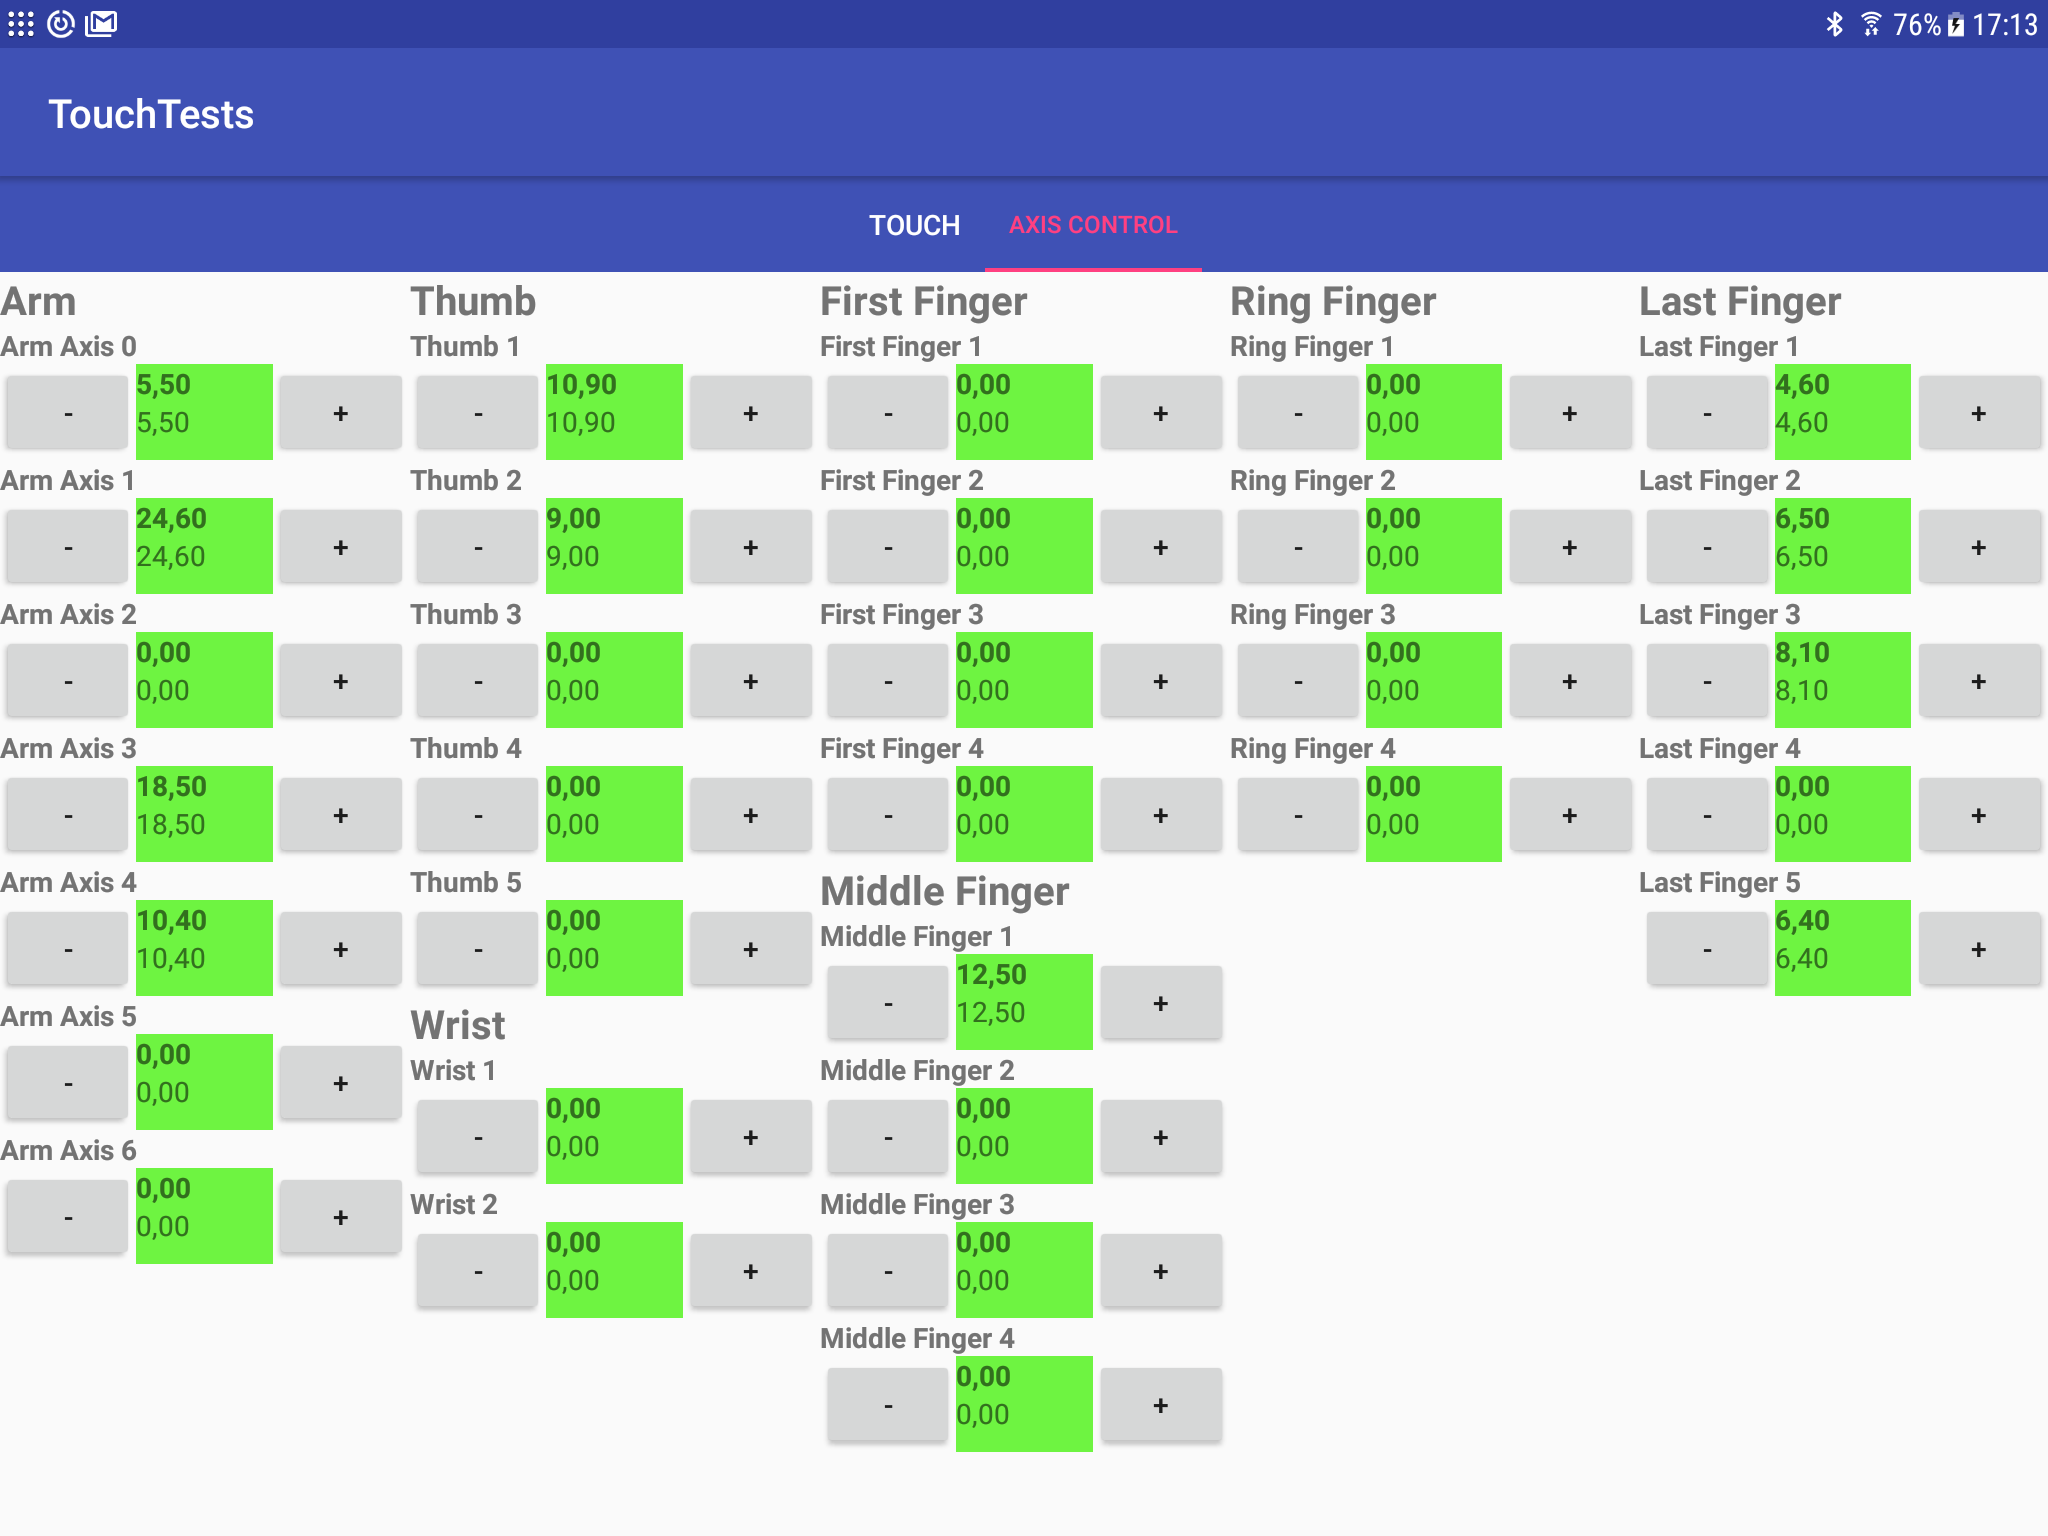
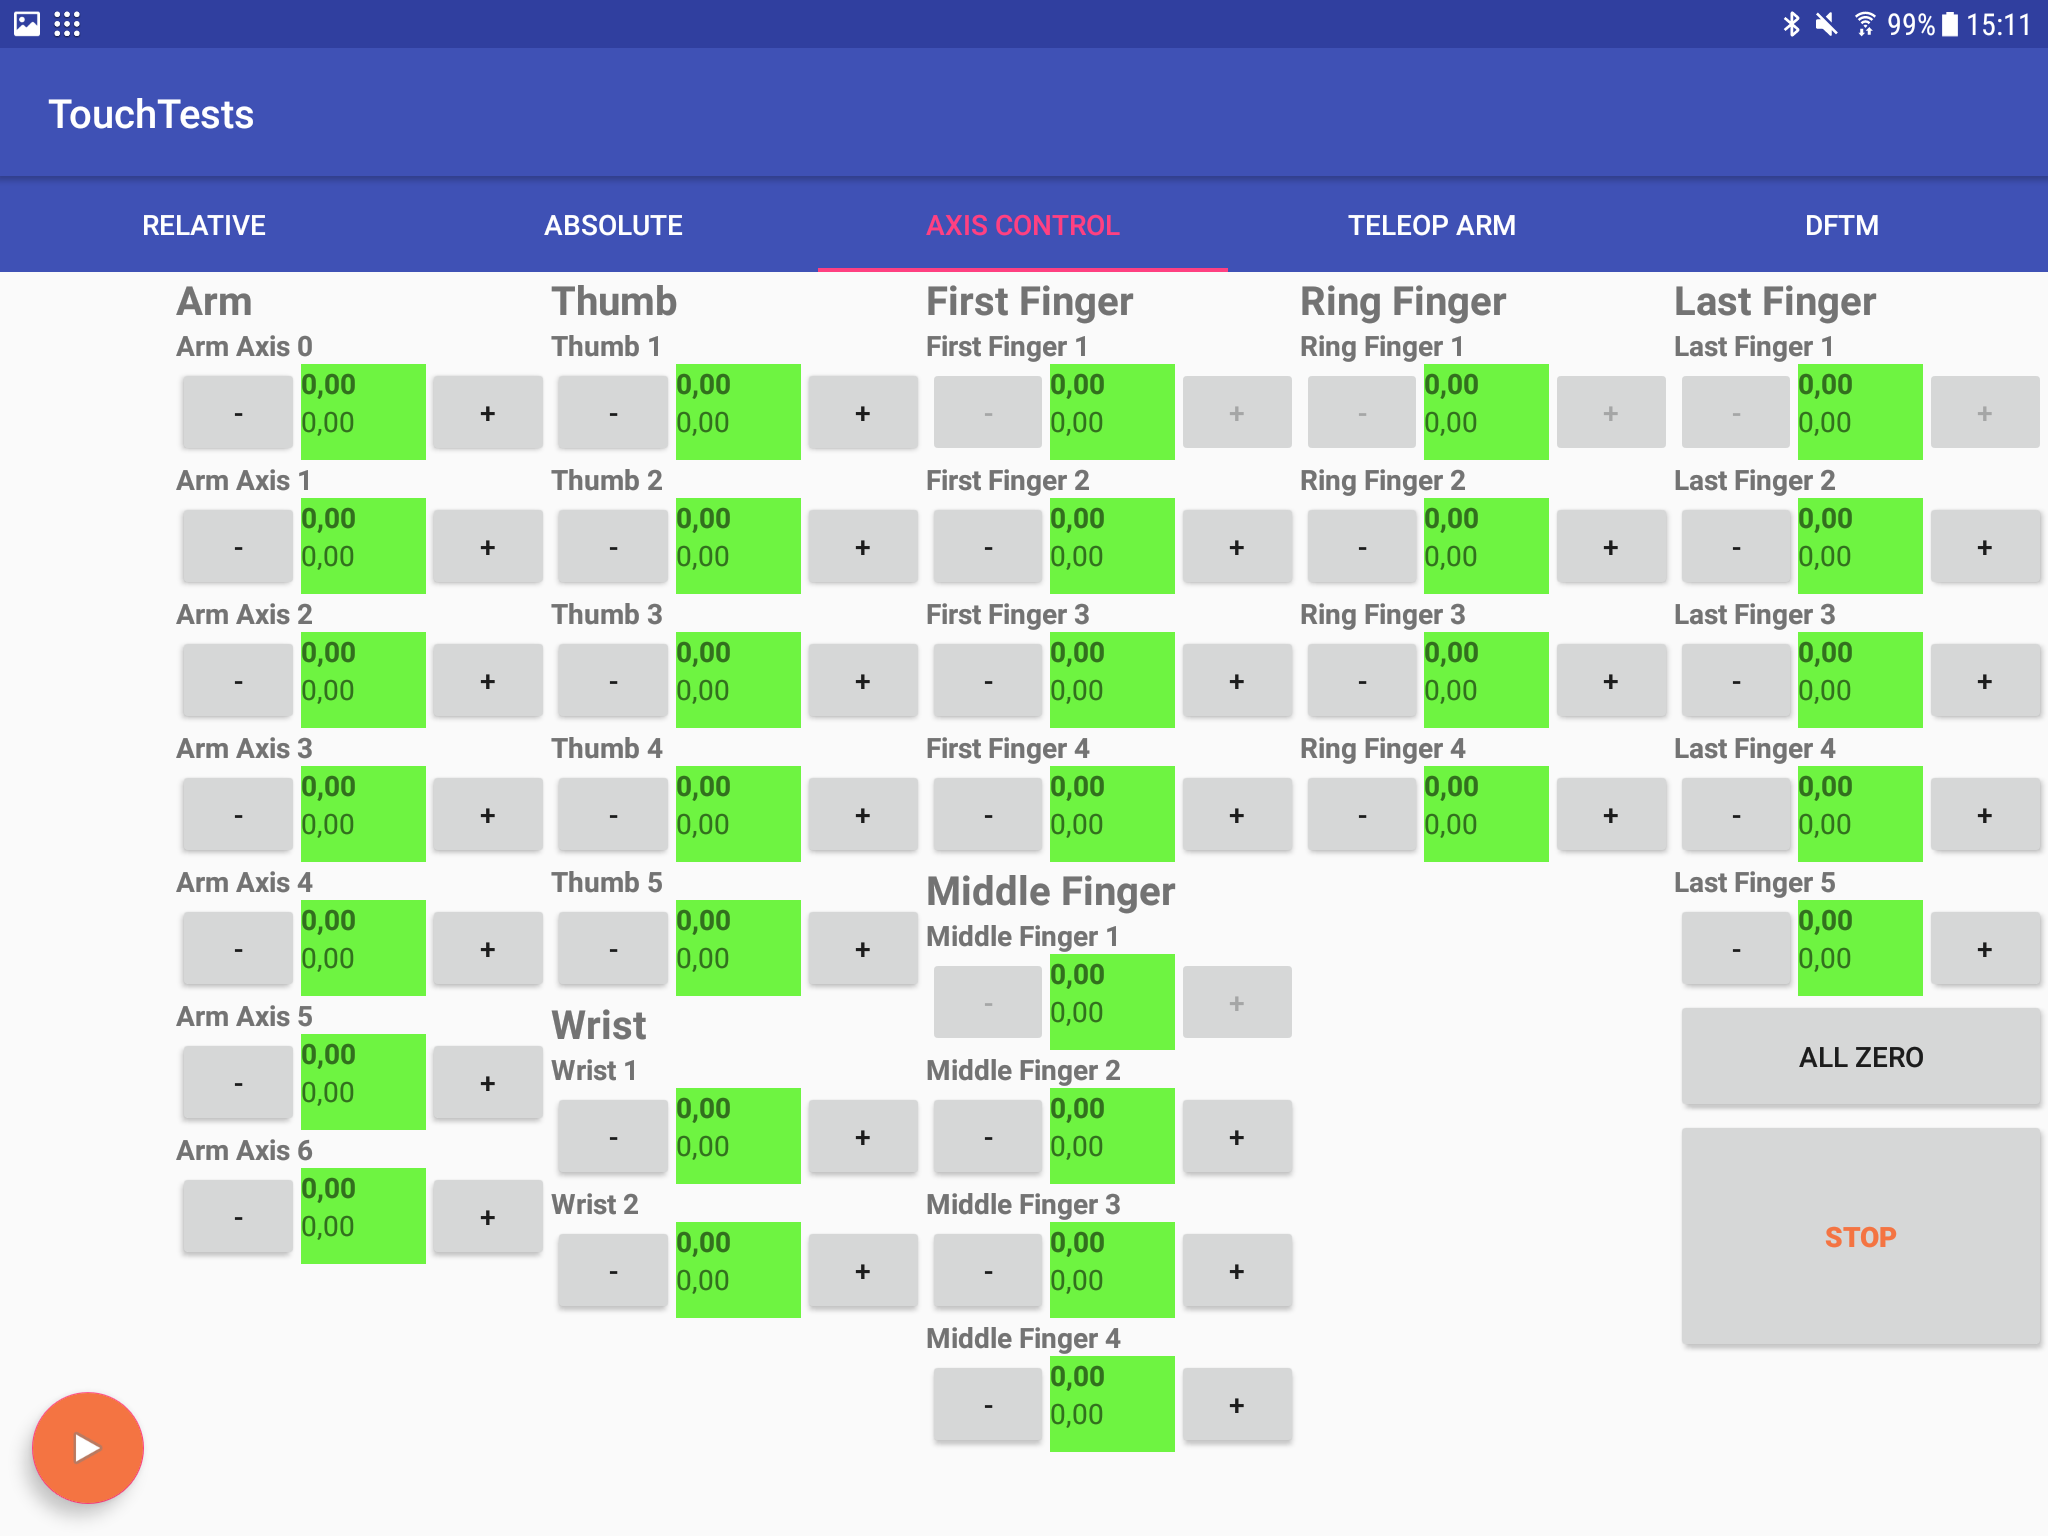
finishing user interface descriptions

diff --git a/Thesis/chap_impl.tex b/Thesis/chap_impl.tex
@@ -185,8 +185,24 @@ A pointer which is marked as \textit{not present} is displayed as an unfilled ci
 
 \subsection{Axis Control Page}
 
+The axis control page consists of many \textit{single axis controls} (one for each axis or joint available in the robot, see Figure \ref{fig:ui:axiscontrol}), which -- as defined earlier -- possess two buttons, one to increase and one to decrease the position of the axis or joint. Between those two buttons the target value is displayed (on the top in bold), as well as the currently measured value as received from the robot (in the bottom). The colour between the buttons indicates the magnitude of difference between the target value and the currently measured value as described in Section \ref{sec:conc:axiscontrol}. Axis control widgets for axes that are not controllable (i.e. the first one for every finger except the thumb) have their buttons greyed out and are thus only there to display the current value of the axis.
+
+Two extra buttons are placed on the screen, one labelled \textit{Stop} and one \textit{All Zero}. These buttons are mapped to functionality explained in Section \ref{sec:impl:axism:stop}. The former sets all target values to zero, while the latter copies all currently measured values into the target value, causing the robot to stop all movements.
+
+\begin{figure}
+	\caption{\label{fig:ui:axiscontrol}The axis control page}
+	\includegraphics[width=0.9\linewidth]{assets/chpt_impl/axis_control}
+\end{figure}
+
 \subsection{Arm Tele-Operation Page}
 \label{sec:impl:armteleop}
+
+\begin{figure}
+	\caption{\label{fig:ui:teleop}The arm tele-op page}
+	\includegraphics[width=0.9\linewidth]{assets/chpt_impl/teleop}
+\end{figure}
+
+As a last page, the arm tele-op page servers as a remote control to move the arm in Cartesian space. The functionality of the \textit{CartesianArmManager} described in Section \ref{sec:impl:armcontrol}. It is important to note that the wording \textit{left, right, forward, backward} are relative to the operators point of view, as standing in front of the robot. Each button press moves the robot's palm by one centimeter into the desired direction. A press on the \textit{Home} button brings the robot into a home position, which is located directly in front of the robot at the border of the table approximately 20cm above the table's plate. This page was implemented for testing reasons, but comes in handy when using the synergy approaches, as the arm should be moved into the \textit{Home} position first before using the gesture control. Doing this using this page is easier than moving every joint on its own using the axis control page. Figure \ref{fig:ui:teleop} gives an impression of the page.
 
 \section{ROS integration}
 
@@ -198,7 +214,7 @@ public class MainActivity &\textbf{extends RosActivity}& {
 }
 \end{lstlisting}
 
-\begin{wrapfigure}[13]{R}{0.55\linewidth}
+\begin{wrapfigure}[14]{R}{0.60\linewidth}
 \caption{\label{fig:impl:masterchooser}The rosandroid master chooser activity}
 \includegraphics[width=\linewidth]{assets/chpt_impl/masterchooser}	
 \end{wrapfigure}
@@ -387,7 +403,7 @@ accepting the joint type as the first parameter. The ROS node implementation wil
 At the end of the timer event in \textit{AxisManager}, first all \textit{current target values} for arm joints are taken from the list of \textit{AxisInformation}. The angle values are converted to radians and put into a Map, which has the axis identifier as the key and the angle of the corresponding axis as value. \textit{handleJointData()} is then called with \textit{JointType.ARM} and the created map. The same procedure is then executed for all \textit{AxisInformation}s with the type \textit{JointType.HAND}.
 
 \subsection{Stopping movement and setting all axes to zero}
-
+\label{sec:impl:axism:stop}
 Two extra functions are implemented in \textit{AxisManager}. The first,
 \begin{lstlisting}
 public void copyCurrentValuesToTarget();
@@ -532,7 +548,7 @@ The first two methods set and query the \textit{locked} state of a gesture, foll
 \textit{catchesPointer()} determines whether a new \textit{Pointer} can be added to the gesture. This is done by checking whether the \textit{Pointer}  is within a distance of $2.5$x the size of the gesture around its center. If only one pointer is present in a gesture no size is available. In that case, a size of 1200 is taken as the \textit{catch radius}. \textit{getCenter()}, \textit{getSize()} and \textit{getOrientation()} represent $c(G)$, $s(G)$ and $o(G)$ as defined in section \ref{sec:conc:gestures}.
 
 \subsection{Arm Control}
-
+\label{sec:impl:armcontrol}
 \subsubsection{The PointInSpace class}
 
 The \textit{PointInSpace} class implements functionality as a vector in three dimensions, offering basic operations like adding other \textit{PointInSpace} instances and multiplying with scalars. It is not as elaborated as the \textit{Location} class, but extending the functionality according to \textit{Location} if needed could easily be done.

diff --git a/Thesis/chap_concepts.tex b/Thesis/chap_concepts.tex
@@ -47,7 +47,7 @@ As the control of grasp synergies allows multiple different types of synergies t
 As there are no additional controls required to control the direct fingertip mapping, the control screen looks mostly like the general touch interaction screen seen in Figure \ref{fig:firstmockup}.
 
 \subsection{Single Axis/Joint Control}
-
+\label{sec:conc:axiscontrol}
 \begin{wrapfigure}[11]{r}{0.4\textwidth}
 	\caption{\label{fig:axiscontrol}Axis control widget with different status indicators}
 	\includegraphics[width=0.4\textwidth]{assets/chpt_concepts/AxisControlGreen}
